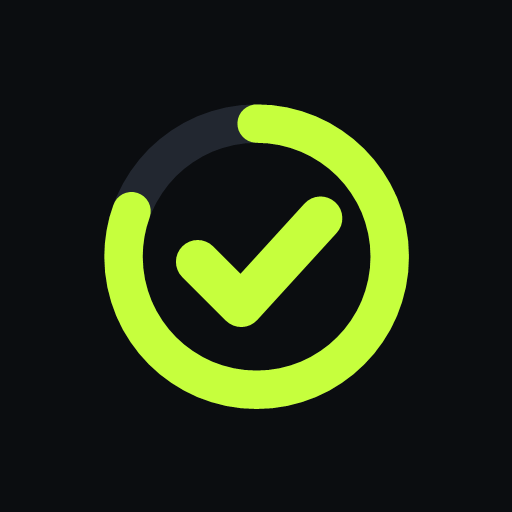
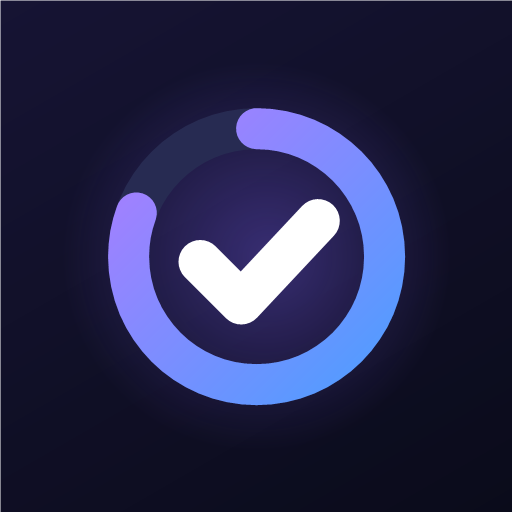
Nieuw paars-blauw thema en icoon, datums herkennen in het taakveld

diff --git a/style.css b/style.css
@@ -1,19 +1,22 @@
 /* Ritme — donker, strak, uitdagend */
 :root {
-  --bg: #0B0D10;
-  --surface: #14171C;
-  --surface2: #1C2027;
-  --track: #232831;
-  --line: #2A303A;
-  --text: #F2F4F7;
-  --muted: #8A93A3;
-  --dim: #5C6473;
-  --accent: #C6FF3D;
-  --accent-ink: #0B0D10;
-  --fire: #FF7A1A;
-  --red: #FF4D5E;
-  --gold: #FFC83D;
-  --blue: #4DA3FF;
+  --bg: #0A0B1A;
+  --surface: #131530;
+  --surface2: #1B1E3D;
+  --track: #272B52;
+  --line: #262A50;
+  --text: #EEF0FF;
+  --muted: #9CA2CC;
+  --dim: #636A9C;
+  --accent: #9D84FF;
+  --accent-2: #5B9BFF;
+  --grad: linear-gradient(135deg, #A47BFF 0%, #6E7BFF 55%, #4F9DFF 100%);
+  --glow: 0 6px 24px -6px rgba(124, 99, 255, .55);
+  --accent-ink: #FFFFFF;
+  --fire: #FF9A6B;
+  --red: #FF5F80;
+  --gold: #FFCB66;
+  --blue: #5BA8FF;
   --r: 18px;
   --head: "Space Grotesk", system-ui, sans-serif;
   --body: "Inter", system-ui, -apple-system, "Segoe UI", sans-serif;
@@ -48,7 +51,7 @@ h1, h2, h3 { font-family: var(--head); margin: 0; letter-spacing: -.01em; }
 
 /* ---------- Navigatie ---------- */
 #nav { position: fixed; left: 0; right: 0; bottom: 0; z-index: 30; padding: 8px 12px calc(10px + var(--safe-b)); background: linear-gradient(transparent, var(--bg) 35%); }
-#nav .bar { max-width: 520px; margin: 0 auto; display: grid; grid-template-columns: repeat(5, 1fr); background: rgba(20,23,28,.92); backdrop-filter: blur(14px); border: 1px solid var(--line); border-radius: 22px; padding: 6px; }
+#nav .bar { max-width: 520px; margin: 0 auto; display: grid; grid-template-columns: repeat(5, 1fr); background: rgba(19,21,48,.92); backdrop-filter: blur(14px); border: 1px solid var(--line); border-radius: 22px; padding: 6px; }
 #nav button { display: flex; flex-direction: column; align-items: center; gap: 2px; padding: 7px 0 6px; border-radius: 16px; color: var(--dim); font-size: 11px; font-weight: 600; }
 #nav button svg { width: 22px; height: 22px; }
 #nav button.on { color: var(--accent-ink); background: var(--accent); }
@@ -75,7 +78,7 @@ h1, h2, h3 { font-family: var(--head); margin: 0; letter-spacing: -.01em; }
 .tag.red { background: rgba(255,77,94,.14); color: var(--red); }
 .tag.gold { background: rgba(255,200,61,.14); color: var(--gold); }
 .tag.fire { background: rgba(255,122,26,.14); color: var(--fire); }
-.tag.lime { background: rgba(198,255,61,.12); color: var(--accent); }
+.tag.lime { background: rgba(157,132,255,.12); color: var(--accent); }
 .leeg { text-align: center; color: var(--muted); padding: 18px 10px; font-size: 14px; }
 .row { display: flex; align-items: center; gap: 10px; }
 .grow { flex: 1; min-width: 0; }
@@ -95,7 +98,7 @@ h1, h2, h3 { font-family: var(--head); margin: 0; letter-spacing: -.01em; }
 
 /* ---------- Hero ---------- */
 .hero { display: flex; align-items: center; gap: 18px; padding: 18px; position: relative; overflow: hidden; }
-.hero::before { content: ""; position: absolute; right: -60px; top: -60px; width: 200px; height: 200px; border-radius: 50%; background: radial-gradient(circle, rgba(198,255,61,.14), transparent 70%); pointer-events: none; }
+.hero::before { content: ""; position: absolute; right: -60px; top: -60px; width: 200px; height: 200px; border-radius: 50%; background: radial-gradient(circle, rgba(157,132,255,.14), transparent 70%); pointer-events: none; }
 .hero .big { position: relative; flex: none; }
 .hero .big .pct { position: absolute; inset: 0; display: grid; place-items: center; font: 700 26px var(--head); }
 .hero .big .pct small { display: block; font-size: 10px; color: var(--muted); font-family: var(--body); text-align: center; letter-spacing: .08em; margin-top: -4px; }
@@ -155,7 +158,7 @@ details.klaarlijst summary::-webkit-details-marker { display: none; }
 /* ---------- Logboek ---------- */
 .moods { display: flex; gap: 6px; margin-bottom: 10px; }
 .moods button { flex: 1; font-size: 24px; padding: 8px 0; border-radius: 12px; background: var(--surface2); border: 1px solid var(--line); filter: grayscale(1); opacity: .55; }
-.moods button.on { filter: none; opacity: 1; border-color: var(--accent); background: rgba(198,255,61,.08); }
+.moods button.on { filter: none; opacity: 1; border-color: var(--accent); background: rgba(157,132,255,.08); }
 .logitem { border-left: 3px solid var(--line); padding: 2px 0 2px 12px; margin-bottom: 16px; }
 .logitem h3 { font-size: 15px; display: flex; gap: 8px; align-items: center; }
 .logitem p { margin: 6px 0 0; white-space: pre-wrap; }
@@ -183,18 +186,18 @@ details.klaarlijst summary::-webkit-details-marker { display: none; }
 .dagdetail h2 { font-size: 18px; text-transform: capitalize; }
 .mini-hab { display: flex; flex-wrap: wrap; gap: 6px; margin: 10px 0; }
 .mini-hab span { font-size: 12.5px; padding: 4px 9px; border-radius: 9px; background: var(--surface2); display: flex; gap: 5px; align-items: center; }
-.mini-hab span.klaar { background: rgba(198,255,61,.12); color: var(--accent); }
+.mini-hab span.klaar { background: rgba(157,132,255,.12); color: var(--accent); }
 .mini-hab span.gemist { background: rgba(255,77,94,.12); color: var(--red); }
 .mini-hab span.skip { background: rgba(255,200,61,.12); color: var(--gold); }
 .groep { font-size: 12px; font-weight: 700; color: var(--muted); text-transform: capitalize; margin: 14px 2px 6px; }
 
 /* ---------- Uitdaging ---------- */
-.chal-hero { text-align: center; padding: 24px 16px 20px; background: radial-gradient(120% 90% at 50% 0%, rgba(255,122,26,.18), transparent 60%), var(--surface); }
+.chal-hero { text-align: center; padding: 24px 16px 20px; background: radial-gradient(120% 90% at 50% 0%, rgba(140,100,255,.28), transparent 60%), var(--surface); }
 .chal-hero .dagnr { font: 700 64px/1 var(--head); letter-spacing: -.03em; }
 .chal-hero .dagnr small { font-size: 22px; color: var(--muted); }
 .chal-hero .lbl { text-transform: uppercase; letter-spacing: .16em; font-size: 11px; color: var(--fire); font-weight: 700; }
 .pbar { height: 12px; border-radius: 99px; background: var(--track); overflow: hidden; margin: 16px 0 8px; }
-.pbar span { display: block; height: 100%; border-radius: 99px; background: linear-gradient(90deg, var(--fire), var(--gold) 60%, var(--accent)); box-shadow: 0 0 18px rgba(255,122,26,.5); transition: width .6s; }
+.pbar span { display: block; height: 100%; border-radius: 99px; background: linear-gradient(90deg, #4F9DFF, #9D84FF 55%, #FF8FC8); box-shadow: 0 0 18px rgba(140,100,255,.55); transition: width .6s; }
 .chal-stats { display: grid; grid-template-columns: repeat(3, 1fr); gap: 8px; margin-top: 14px; }
 .chal-stats div { background: var(--surface2); border-radius: 12px; padding: 9px 4px; }
 .chal-stats b { display: block; font: 700 20px var(--head); }
@@ -211,7 +214,7 @@ details.klaarlijst summary::-webkit-details-marker { display: none; }
 .regels li { margin-bottom: 4px; }
 .keuze { display: grid; gap: 8px; }
 .keuze label { display: flex; align-items: center; gap: 10px; padding: 11px 12px; border-radius: 14px; background: var(--surface2); border: 1px solid var(--line); cursor: pointer; }
-.keuze label:has(input:checked) { border-color: var(--accent); background: rgba(198,255,61,.07); }
+.keuze label:has(input:checked) { border-color: var(--accent); background: rgba(157,132,255,.07); }
 .keuze input { width: 18px; height: 18px; accent-color: var(--accent); flex: none; }
 .keuze .t { font-weight: 600; }
 .keuze small { display: block; color: var(--muted); font-weight: 400; }
@@ -314,13 +317,13 @@ details.klaarlijst summary::-webkit-details-marker { display: none; }
 .hab-acts button.big.teller::before { content: ""; position: absolute; left: 0; right: 0; bottom: 0; height: calc(var(--p) * 100%); background: color-mix(in srgb, var(--c) 40%, transparent); transition: height .3s; }
 .hab-acts button.big.teller span { position: relative; }
 .heat i.mini { background: color-mix(in srgb, var(--c) 45%, var(--surface2)); }
-.mini-hab span.mini { background: rgba(198,255,61,.07); color: var(--accent); border: 1px dashed rgba(198,255,61,.4); }
+.mini-hab span.mini { background: rgba(157,132,255,.07); color: var(--accent); border: 1px dashed rgba(157,132,255,.4); }
 
 .acties { display: grid; gap: 7px; }
 .actie { display: flex; align-items: center; gap: 12px; text-align: left; padding: 11px 12px; border-radius: 14px; background: var(--surface2); border: 1px solid var(--line); }
 .actie .ai { width: 34px; height: 34px; border-radius: 10px; display: grid; place-items: center; background: var(--track); font: 700 17px var(--head); flex: none; }
 .actie small { display: block; color: var(--muted); font-size: 12px; }
-.actie.on { border-color: var(--accent); background: rgba(198,255,61,.08); }
+.actie.on { border-color: var(--accent); background: rgba(157,132,255,.08); }
 .actie.on .ai { background: var(--accent); color: var(--accent-ink); }
 .stepper { display: flex; align-items: center; justify-content: space-between; gap: 12px; background: var(--surface2); border-radius: 16px; padding: 10px; margin-bottom: 12px; }
 .stepper .btn { width: 54px; height: 54px; font-size: 26px; padding: 0; }
@@ -340,7 +343,7 @@ details.klaarlijst summary::-webkit-details-marker { display: none; }
 #toast .undo { background: var(--bg); color: var(--accent); border-radius: 9px; padding: 4px 10px; font-weight: 700; font-size: 13px; flex: none; }
 
 #focus { position: fixed; left: 0; right: 0; bottom: calc(84px + var(--safe-b)); z-index: 29; padding: 0 12px; }
-#focus .fpan { max-width: 520px; margin: 0 auto; background: rgba(20,23,28,.96); backdrop-filter: blur(14px); border: 1px solid rgba(77,163,255,.45); border-radius: 18px; padding: 10px 12px; overflow: hidden; position: relative; box-shadow: 0 8px 30px rgba(0,0,0,.4); }
+#focus .fpan { max-width: 520px; margin: 0 auto; background: rgba(19,21,48,.96); backdrop-filter: blur(14px); border: 1px solid rgba(77,163,255,.45); border-radius: 18px; padding: 10px 12px; overflow: hidden; position: relative; box-shadow: 0 8px 30px rgba(0,0,0,.4); }
 #focus .fbar { position: absolute; left: 0; top: 0; right: 0; height: 3px; background: var(--track); }
 #focus .fbar span { display: block; height: 100%; background: var(--blue); transition: width 1s linear; }
 #focus b { font: 700 20px var(--head); font-variant-numeric: tabular-nums; margin-right: 6px; }
@@ -359,7 +362,7 @@ body.focus-aan #toast { bottom: calc(160px + var(--safe-b)); }
 .chatform .btn { height: 46px; }
 .chatform .mic { width: 46px; padding: 0; font-size: 18px; flex: none; }
 .chatform .mic.opname { background: var(--red); border-color: var(--red); animation: puls 1.2s infinite; }
-.actiekaart { align-self: stretch; background: var(--surface2); border: 1px solid rgba(198,255,61,.35); border-radius: 16px; padding: 10px; display: grid; gap: 6px; }
+.actiekaart { align-self: stretch; background: var(--surface2); border: 1px solid rgba(157,132,255,.35); border-radius: 16px; padding: 10px; display: grid; gap: 6px; }
 .actiekaart label { display: flex; gap: 10px; align-items: flex-start; padding: 8px; border-radius: 11px; background: var(--surface); cursor: pointer; }
 .actiekaart label:has(input:not(:checked)) { opacity: .45; }
 .actiekaart input { width: 19px; height: 19px; accent-color: var(--accent); flex: none; margin-top: 1px; padding: 0; }
@@ -369,3 +372,63 @@ body.focus-aan #toast { bottom: calc(160px + var(--safe-b)); }
 .actiekaart, .actiekaart label, .actiekaart span { min-width: 0; }
 .actiekaart span { flex: 1; overflow-wrap: anywhere; }
 .chat { min-width: 0; }
+
+/* =========================================================
+   Thema: nachtblauw met paars → blauw
+   ========================================================= */
+body {
+  background:
+    radial-gradient(900px 520px at 0% -10%, rgba(130, 92, 255, .20), transparent 60%),
+    radial-gradient(800px 500px at 110% 0%, rgba(64, 140, 255, .14), transparent 60%),
+    radial-gradient(700px 600px at 50% 120%, rgba(110, 80, 255, .10), transparent 60%),
+    var(--bg);
+  background-attachment: fixed;
+}
+#top { background: linear-gradient(rgba(10,11,26,.92) 70%, transparent); backdrop-filter: blur(6px); }
+.logo i { background: var(--grad); box-shadow: 0 0 16px rgba(140,110,255,.9); }
+.logo { background: linear-gradient(90deg, #fff, #C9C0FF); -webkit-background-clip: text; background-clip: text; color: transparent; }
+
+/* Kaarten: subtiele glans en diepte */
+.card, .hab, .task, .tile, .actie, .cel {
+  background-image: linear-gradient(180deg, rgba(255,255,255,.035), rgba(255,255,255,0) 60%);
+}
+.card, .hab, .tile { box-shadow: 0 1px 0 rgba(255,255,255,.04) inset, 0 12px 32px -20px rgba(0,0,0,.8); border-color: rgba(140,130,255,.12); }
+.task { border-color: rgba(140,130,255,.10); }
+
+/* Alles wat "aan" of "gedaan" is: paars-blauw verloop */
+.btn.pri, #nav button.on, .chip.on, .lvl b, .task.klaar .chk, .cel.perfect, .grid60 .ok,
+.wdsel label:has(input:checked), .msg.user, .actie.on .ai, .schakel input[type=checkbox]:checked, .lvl .xpbar span {
+  background: var(--grad); border-color: transparent; color: #fff;
+}
+.btn.pri, #nav button.on { box-shadow: var(--glow); }
+.chip.on, .wdsel label:has(input:checked) { box-shadow: 0 4px 14px -6px rgba(124,99,255,.7); }
+.cel.perfect { box-shadow: 0 6px 18px -8px rgba(124,99,255,.8); }
+.cel.perfect .dots i { background: #fff; }
+.cel.heat { background-color: color-mix(in srgb, #8C6CFF calc(var(--h) * 45%), var(--surface)); background-image: none; }
+.schakel input[type=checkbox]:checked::after { background: #fff; }
+.task.klaar .chk { color: #fff; }
+#nav .bar { background: rgba(17,19,44,.85); border-color: rgba(140,130,255,.16); box-shadow: 0 16px 40px -12px rgba(0,0,0,.7); }
+#nav button { color: #6E75A8; }
+.dag.vandaag small { color: #B9A8FF; }
+.dag.sel { background: linear-gradient(180deg, rgba(157,132,255,.22), rgba(91,155,255,.10)); color: #fff; }
+.dag.sel::after { background: var(--accent); }
+.hero { background-image: linear-gradient(135deg, rgba(157,132,255,.12), rgba(91,155,255,.05) 60%, transparent); border-color: rgba(157,132,255,.22); }
+.hero::before { background: radial-gradient(circle, rgba(157,132,255,.30), transparent 70%); }
+.hero .stats span[style*="--fire"] { color: var(--fire); }
+.chal-hero .lbl { color: #B9A8FF; }
+.grid60 .bezig { outline-color: var(--accent); color: var(--accent); }
+@keyframes puls { 50% { box-shadow: 0 0 16px rgba(157,132,255,.7); } }
+.bars .b span { background: var(--grad); }
+.bars .b span.mid { background: linear-gradient(180deg, rgba(157,132,255,.65), rgba(91,155,255,.35)); }
+.bars .b.nu small { color: var(--accent); }
+.tile .acc { background: var(--grad); -webkit-background-clip: text; background-clip: text; color: transparent; }
+.tag.lime { color: #C2B3FF; }
+input:focus, textarea:focus, select:focus { border-color: var(--accent); box-shadow: 0 0 0 3px rgba(157,132,255,.18); }
+#toast { background: #F1EEFF; color: #15173A; box-shadow: 0 10px 30px -8px rgba(0,0,0,.6); }
+#toast .undo { background: var(--grad); color: #fff; }
+.reviewkaart { border-color: rgba(91,155,255,.4); background: linear-gradient(90deg, rgba(91,155,255,.16), rgba(157,132,255,.08) 60%, var(--surface)); }
+.actiekaart { border-color: rgba(157,132,255,.35); }
+.actiekaart input, .keuze input, .sub input { accent-color: #8C6CFF; }
+.hint { font-size: 12.5px; color: var(--muted); margin: -4px 2px 10px; min-height: 0; }
+.hint:empty { display: none; }
+.hint b { color: var(--text); font-weight: 600; }

diff --git a/app.js b/app.js
@@ -5,7 +5,7 @@
    ========================================================= */
 
 const OPSLAG = 'ritme-v1';
-const KLEUREN = ['#C6FF3D', '#FF7A1A', '#4DA3FF', '#B57BFF', '#FF4D8D', '#2EE6C5', '#FFC83D'];
+const KLEUREN = ['#9D84FF', '#5BA8FF', '#FF8FC8', '#4FD8C4', '#FFB36B', '#C77DFF', '#7FD4FF'];
 const WD = ['zo', 'ma', 'di', 'wo', 'do', 'vr', 'za'];
 const WD_LANG = ['zondag', 'maandag', 'dinsdag', 'woensdag', 'donderdag', 'vrijdag', 'zaterdag'];
 const MAANDEN = ['januari', 'februari', 'maart', 'april', 'mei', 'juni', 'juli', 'augustus', 'september', 'oktober', 'november', 'december'];
@@ -295,7 +295,7 @@ function viewVandaag() {
   const strip = Array.from({ length: 7 }, (_, i) => {
     const d = addDays(ma, i), dv = d <= t ? dagVoortgang(d) : null;
     return `<button class="dag ${d === t ? 'vandaag' : ''} ${d === dag ? 'sel' : ''}" data-act="kiesdag" data-dag="${d}">
-      <small>${WD[parse(d).getDay()]}</small><span class="n">${dv ? ring(dv.pct, 30, 3, perfect(dv) ? 'var(--accent)' : 'var(--fire)') : ''}${parse(d).getDate()}</span></button>`;
+      <small>${WD[parse(d).getDay()]}</small><span class="n">${dv ? ring(dv.pct, 30, 3, perfect(dv) ? 'url(#rgP)' : 'url(#rgB)') : ''}${parse(d).getDate()}</span></button>`;
   }).join('');
 
   const gisteren = addDays(t, -1);
@@ -307,7 +307,7 @@ function viewVandaag() {
   <div class="strip"><button class="nav" data-act="week" data-n="-7">${ic('left')}</button><div class="days">${strip}</div><button class="nav" data-act="week" data-n="7">${ic('right')}</button></div>
   ${dag !== t ? `<div class="terug"><span>Je bekijkt ${dagLabel(dag)}</span><button class="btn sm" data-act="kiesdag" data-dag="${t}">Naar vandaag</button></div>` : ''}
   <div class="card hero" style="margin-top:12px">
-    <div class="big">${ring(v.pct, 96, 10, perfect(v) ? 'var(--accent)' : 'var(--fire)')}<div class="pct"><div>${v.pct == null ? '–' : Math.round(v.pct * 100) + '%'}<small>${v.totaal ? v.klaar + '/' + v.totaal : ''}</small></div></div></div>
+    <div class="big">${ring(v.pct, 96, 10, perfect(v) ? 'url(#rgP)' : 'url(#rgB)')}<div class="pct"><div>${v.pct == null ? '–' : Math.round(v.pct * 100) + '%'}<small>${v.totaal ? v.klaar + '/' + v.totaal : ''}</small></div></div></div>
     <div class="grow">
       <h1>${dagLabel(dag)}</h1>
       <p>${motivatie(v, dag)}</p>
@@ -325,7 +325,7 @@ function viewVandaag() {
   ${habHtml}
 
   <div class="sec"><h2>Taken</h2><span class="cnt">${open.length} open</span><button class="btn sm r" data-act="nieuwetaak">${ic('plus')}Uitgebreid</button></div>
-  <form class="add" data-form="snel"><input name="titel" placeholder="Taak voor ${dagLabel(dag).toLowerCase()}…" autocomplete="off" maxlength="140"><button class="btn pri">${ic('plus')}</button></form>
+  <form class="add" data-form="snel"><input name="titel" placeholder="Taak… bijv. morgen 10 uur tandarts bellen" autocomplete="off" maxlength="140"><button class="btn pri">${ic('plus')}</button></form><div class="hint"></div>
   ${open.map(k => taakRij(k, dag)).join('') || `<div class="leeg">${klaar.length ? 'Alles af. Sterk bezig. ✅' : 'Nog geen taken voor deze dag.'}</div>`}
   ${klaar.length ? `<details class="klaarlijst"><summary>✓ ${klaar.length} afgerond</summary>${klaar.map(k => taakRij(k, dag)).join('')}</details>` : ''}
   ${dag === t ? zonderDatum() : ''}
@@ -427,7 +427,7 @@ function viewAgenda() {
     ${ahs.length ? `<div class="mini-hab">${ahs.map(h => { const s = status(h, ad); return `<span class="${s}">${esc(h.emoji)} ${esc(h.naam)}${s === 'klaar' ? ' ✓' : s === 'mini' ? ' ½' : s === 'skip' ? ' ↷' : s === 'gemist' ? ' ✕' : ''}</span>`; }).join('')}</div>` : ''}
     ${atk.map(k => taakRij(k, ad)).join('') || '<div class="muted" style="font-size:13.5px;margin:8px 0">Geen taken op deze dag.</div>'}
     ${alog && (alog.tekst || alog.stemming) ? `<p class="muted" style="font-size:13.5px;margin:10px 0 0">${alog.stemming ? MOODS[alog.stemming - 1] + ' ' : ''}${esc((alog.tekst || '').slice(0, 160))}</p>` : ''}
-    <form class="add" data-form="agendataak" style="margin:12px 0 0"><input name="titel" placeholder="Taak toevoegen op ${dagLabel(ad, true).toLowerCase()}…" autocomplete="off" maxlength="140"><button class="btn pri">${ic('plus')}</button></form>
+    <form class="add" data-form="agendataak" style="margin:12px 0 0"><input name="titel" placeholder="Taak toevoegen op ${dagLabel(ad, true).toLowerCase()}…" autocomplete="off" maxlength="140"><button class="btn pri">${ic('plus')}</button></form><div class="hint"></div>
     <button class="btn sm full" style="margin-top:8px" data-act="opendag" data-dag="${ad}">Open deze dag om af te vinken</button>
   </div>`;
 
@@ -665,6 +665,77 @@ function viewCoach() {
       ${spraak ? `<button type="button" class="btn mic" data-act="mic" title="Inspreken">🎤</button>` : ''}<button class="btn pri" ${ui.coachBezig ? 'disabled' : ''}>${ic('send')}</button></form>
   </div>`;
 }
+/* ---------- Datums uit gewone tekst halen ("morgen 10 uur tandarts", "24e pakket bestellen") ---------- */
+const DAGNAMEN = { zondag: 0, maandag: 1, dinsdag: 2, woensdag: 3, donderdag: 4, vrijdag: 5, zaterdag: 6 };
+const MAANDNR = { jan: 0, januari: 0, feb: 1, februari: 1, mrt: 2, maart: 2, apr: 3, april: 3, mei: 4, jun: 5, juni: 5, jul: 6, juli: 6, aug: 7, augustus: 7, sep: 8, sept: 8, september: 8, okt: 9, oktober: 9, nov: 10, november: 10, dec: 11, december: 11 };
+const WD_RE = 'maandag|dinsdag|woensdag|donderdag|vrijdag|zaterdag|zondag';
+const MAAND_RE = 'januari|februari|maart|april|mei|juni|juli|augustus|september|oktober|november|december|sept|jan|feb|mrt|apr|jun|jul|aug|sep|okt|nov|dec';
+function datumUit(dag, maand, jaar) {
+  const nu = parse(vandaag());
+  const y = jaar ? (String(jaar).length === 2 ? 2000 + Number(jaar) : Number(jaar)) : nu.getFullYear();
+  const mm = maand ?? nu.getMonth();
+  if (dag < 1 || dag > 31 || mm < 0 || mm > 11) return null;
+  let d = new Date(y, mm, dag);
+  if (d.getMonth() !== mm) return null;
+  if (!jaar && ymd(d) < vandaag()) d = maand == null ? new Date(y, mm + 1, dag) : new Date(y + 1, mm, dag); // al geweest → volgende keer
+  return ymd(d);
+}
+function tijdUit(h, min, gok) {
+  if (gok && h >= 1 && h <= 7) h += 12;   // "om 5 uur" bedoelt bijna altijd 17:00
+  if (h < 0 || h > 23 || min < 0 || min > 59) return '';
+  return pad(h) + ':' + pad(min);
+}
+function leesDatum(invoer, basis) {
+  const t = vandaag();
+  let s = ' ' + invoer.replace(/\s+/g, ' ') + ' ', datum = null, tijd = '', herhaal = null, prio = 0, m;
+  const middag = /avond|middag|'s avonds|'s middags|\bpm\b/i.test(invoer); // "vanavond om 8" = 20:00
+  const weg = re => { const x = s.match(re); if (x) s = s.replace(x[0], ' '); return x; };
+  const volgendeWd = wd => { let d = addDays(t, 1); while (parse(d).getDay() !== wd) d = addDays(d, 1); return d; };
+  // Herhaling
+  if ((m = weg(new RegExp(`\\s(?:elke|iedere)\\s+(${WD_RE})\\s`, 'i')))) { const wd = DAGNAMEN[m[1].toLowerCase()]; herhaal = { type: 'week', n: 1 }; datum = parse(t).getDay() === wd ? t : volgendeWd(wd); }
+  else if (weg(/\s(?:(?:elke|iedere)\s+werkdag|doordeweeks)\s/i)) herhaal = { type: 'werkdagen', n: 1 };
+  else if (weg(/\s(?:(?:elke|iedere)\s+dag|dagelijks)\s/i)) herhaal = { type: 'dag', n: 1 };
+  else if (weg(/\s(?:(?:elke|iedere)\s+week|wekelijks)\s/i)) herhaal = { type: 'week', n: 1 };
+  else if (weg(/\s(?:(?:elke|iedere)\s+maand|maandelijks)\s/i)) herhaal = { type: 'maand', n: 1 };
+  else if (weg(/\s(?:(?:elk|ieder)\s+jaar|jaarlijks)\s/i)) herhaal = { type: 'jaar', n: 1 };
+  // Datum
+  if (!datum) {
+    if (weg(/\s(?:vandaag|vanavond|vanmiddag|vanochtend)\s/i)) datum = t;
+    else if (weg(/\sovermorgen\s/i)) datum = addDays(t, 2);
+    else if (weg(/\smorgen(?:ochtend|middag|avond|vroeg)?\s/i)) datum = addDays(t, 1);
+    else if ((m = weg(/\sover\s+(\d{1,2}|een|twee|drie|vier)\s+(dag|dagen|week|weken)\s/i))) { const n = { een: 1, twee: 2, drie: 3, vier: 4 }[m[1].toLowerCase()] || Number(m[1]); datum = addDays(t, /we/i.test(m[2]) ? 7 * n : n); }
+    else if ((m = weg(new RegExp(`\\s(?:op\\s+)?(volgende\\s+week\\s+|volgende\\s+|aanstaande\\s+|komende\\s+)?(${WD_RE})\\s`, 'i')))) {
+      datum = volgendeWd(DAGNAMEN[m[2].toLowerCase()]);
+      if (m[1] && /volgende/i.test(m[1]) && datum < addDays(maandagVan(t), 7)) datum = addDays(datum, 7);
+    }
+    else if (weg(/\svolgende\s+week\s/i)) datum = addDays(maandagVan(t), 7);
+    else if ((m = weg(new RegExp(`\\s(?:op\\s+)?(?:de\\s+)?(\\d{1,2})(?:e|ste|de)?\\s+(${MAAND_RE})\\.?\\s`, 'i')))) datum = datumUit(Number(m[1]), MAANDNR[m[2].toLowerCase()]);
+    else if ((m = weg(/\s(?:op\s+)?(\d{1,2})[-\/](\d{1,2})(?:[-\/](\d{2,4}))?\s/))) datum = datumUit(Number(m[1]), Number(m[2]) - 1, m[3]);
+    else if ((m = weg(/\s(?:op\s+)?(?:de\s+)?(\d{1,2})(?:e|ste|de)\s/i))) datum = datumUit(Number(m[1]));
+  }
+  // Tijd
+  if ((m = weg(/\s(?:om\s+)?(\d{1,2})[:.](\d{2})(?:\s*uur)?\s/i))) tijd = tijdUit(+m[1], +m[2], false);
+  else if ((m = weg(/\som\s+half\s+(\d{1,2})\s/i))) tijd = tijdUit(+m[1] - 1, 30, true);
+  else if ((m = weg(/\s(?:om\s+)?(\d{1,2})\s*(?:uur|u)\s/i)) || (m = weg(/\som\s+(\d{1,2})\s/i))) tijd = tijdUit(+m[1], 0, true);
+  if (tijd && middag && Number(tijd.slice(0, 2)) < 12) tijd = pad(Number(tijd.slice(0, 2)) + 12) + tijd.slice(2);
+  s = s.replace(/\s's\s+(?:avonds|middags|ochtends)\s/i, ' ');
+  // Prioriteit: ! = belangrijk, !! = dringend
+  if (/!!/.test(s) || /\s(?:dringend|urgent)\s/i.test(s)) prio = 2; else if (/!/.test(s)) prio = 1;
+  s = s.replace(/!+/g, ' ');
+  let titel = s.replace(/\s+/g, ' ').trim()
+    .replace(/^(?:ik\s+)?(?:moet|wil|ga|moeten)\s+(?:ik\s+)?/i, '').replace(/^(?:nog|even|ook)\s+/i, '')
+    .replace(/\s+(?:om|op|de|voor|en|nog)$/i, '').replace(/^[,.:;\-\s]+|[,.:;\-\s]+$/g, '').trim();
+  if (!titel) titel = invoer.trim();
+  titel = titel.charAt(0).toUpperCase() + titel.slice(1);
+  const datumGevonden = !!datum;
+  if (herhaal && !datum) datum = t;
+  return { titel, datum: datum || basis, tijd, herhaal, prio, gevonden: datumGevonden || !!tijd || !!herhaal || prio > 0, datumGevonden };
+}
+function datumHint(p) {
+  if (!p.gevonden) return '';
+  return `${p.datumGevonden || p.herhaal ? '📅 ' + dagLabel(p.datum) : ''}${p.tijd ? ' · ⏰ ' + p.tijd : ''}${p.herhaal ? ' · 🔁 ' + herhaalLabel(p.herhaal) : ''}${p.prio === 2 ? ' · 🔴 dringend' : p.prio === 1 ? ' · 🟡 belangrijk' : ''} → <b>${esc(p.titel)}</b>`;
+}
+
 /* ---------- Coach → taken en gewoontes ("hoofd leegmaken") ---------- */
 const HERHAAL_TYPES = ['dag', 'werkdagen', 'week', 'maand', 'jaar'];
 function actieInstructie() {
@@ -676,7 +747,7 @@ function actieInstructie() {
 \`\`\`
 Regels:
 - titel: kort en concreet, begin met een werkwoord. Eén taak per ding; geen dubbele.
-- datum: JJJJ-MM-DD of null als er geen dag genoemd is. Vandaag is ${WD_LANG[parse(t).getDay()]} ${t}. Komende dagen: ${dagen}. "Volgende week" zonder dag = maandag van volgende week.
+- datum: JJJJ-MM-DD of null als er geen dag genoemd is. Vandaag is ${WD_LANG[parse(t).getDay()]} ${t}. Komende dagen: ${dagen}. "Volgende week" zonder dag = maandag van volgende week. Alleen een dagnummer ("de 24e") = eerstvolgende datum met dat nummer (deze maand, of volgende maand als die al geweest is).
 - tijd: "UU:MM" of "" als er geen tijd genoemd is.
 - prio: 0 normaal, 1 belangrijk, 2 deadline/dringend.
 - herhaal: null, of {"type":"dag|werkdagen|week|maand|jaar","n":1} als het terugkomt ("elke vrijdag" = week met de datum van de eerstvolgende vrijdag).
@@ -1389,15 +1460,21 @@ document.addEventListener('submit', e => {
   }
   const v = f.elements[0].value.trim(); if (!v) return;
   if (f.dataset.form === 'snel' || f.dataset.form === 'agendataak') {
-    const datum = f.dataset.form === 'snel' ? ui.dag : ui.agendaDag;
-    state.taken.push({ id: uid(), titel: v, datum, tijd: '', prio: 0, notitie: '', klaar: false, klaarOp: null, verschoven: 0, aangemaakt: vandaag() });
-    bewaar(); render(); toast('Taak toegevoegd');
+    const p = leesDatum(v, f.dataset.form === 'snel' ? ui.dag : ui.agendaDag);
+    state.taken.push({ id: uid(), titel: p.titel, datum: p.datum, tijd: p.tijd, prio: p.prio, herhaal: p.herhaal, subtaken: [], notitie: '', klaar: false, klaarOp: null, verschoven: 0, aangemaakt: vandaag() });
+    bewaar(); render();
+    toast(p.datumGevonden && p.datum !== (f.dataset.form === 'snel' ? ui.dag : ui.agendaDag) ? `📅 Gepland op ${dagLabel(p.datum).toLowerCase()}${p.tijd ? ' om ' + p.tijd : ''}` : 'Taak toegevoegd');
     document.querySelector(`[data-form=${f.dataset.form}] input`)?.focus();
   }
   if (f.dataset.form === 'coach') vraagCoach(v);
 });
 let dagboekTimer;
 document.addEventListener('input', e => {
+  const sf = e.target.closest('[data-form=snel],[data-form=agendataak]');
+  if (sf) {
+    const hint = sf.nextElementSibling?.classList.contains('hint') ? sf.nextElementSibling : null;
+    if (hint) hint.innerHTML = e.target.value.trim() ? datumHint(leesDatum(e.target.value, sf.dataset.form === 'snel' ? ui.dag : ui.agendaDag)) : '';
+  }
   if (e.target.dataset.inp === 'dagboek') {
     const d = ui.dag, v = e.target.value;
     clearTimeout(dagboekTimer);
@@ -1428,7 +1505,7 @@ function snapshot() {
 $('#toast').addEventListener('click', e => { if (e.target.closest('.undo') && undoFn) { const f = undoFn; undoFn = null; f(); } });
 function confetti(n = 60) {
   if (matchMedia('(prefers-reduced-motion: reduce)').matches) return;
-  const c = $('#confetti'), kl = ['#C6FF3D', '#FF7A1A', '#FFC83D', '#4DA3FF', '#FF4D8D'];
+  const c = $('#confetti'), kl = ['#A47BFF', '#6E7BFF', '#4F9DFF', '#FF8FC8', '#FFCB66'];
   for (let i = 0; i < n; i++) {
     const s = document.createElement('i');
     const hoek = Math.random() * Math.PI * 2, afst = 120 + Math.random() * 280;

diff --git a/index.html b/index.html
@@ -3,7 +3,7 @@
 <head>
 <meta charset="utf-8">
 <meta name="viewport" content="width=device-width, initial-scale=1, viewport-fit=cover">
-<meta name="theme-color" content="#0B0D10">
+<meta name="theme-color" content="#0A0B1A">
 <meta name="color-scheme" content="dark">
 <title>Ritme</title>
 <link rel="manifest" href="manifest.webmanifest">
@@ -22,6 +22,7 @@
 <div id="sheet"></div>
 <div id="toast"></div>
 <div id="confetti"></div>
+<svg width="0" height="0" style="position:absolute" aria-hidden="true"><defs><linearGradient id="rgP" x1="0" y1="0" x2="1" y2="1"><stop offset="0" stop-color="#C08BFF"/><stop offset="1" stop-color="#5B9BFF"/></linearGradient><linearGradient id="rgB" x1="0" y1="0" x2="1" y2="1"><stop offset="0" stop-color="#8C6CFF"/><stop offset="1" stop-color="#4F9DFF"/></linearGradient></defs></svg>
 <script src="app.js"></script>
 </body>
 </html>

diff --git a/sw.js b/sw.js
@@ -1,6 +1,6 @@
 // Service worker: zorgt dat Ritme ook zonder internet opent.
 // Eerst het netwerk proberen (zo zie je updates meteen), anders de bewaarde kopie.
-const CACHE = "ritme-v4";
+const CACHE = "ritme-v5";
 const SHELL = ["./", "index.html", "style.css", "app.js", "manifest.webmanifest", "icons/icon-192.png", "icons/icon-512.png"];
 
 self.addEventListener("install", e => {
